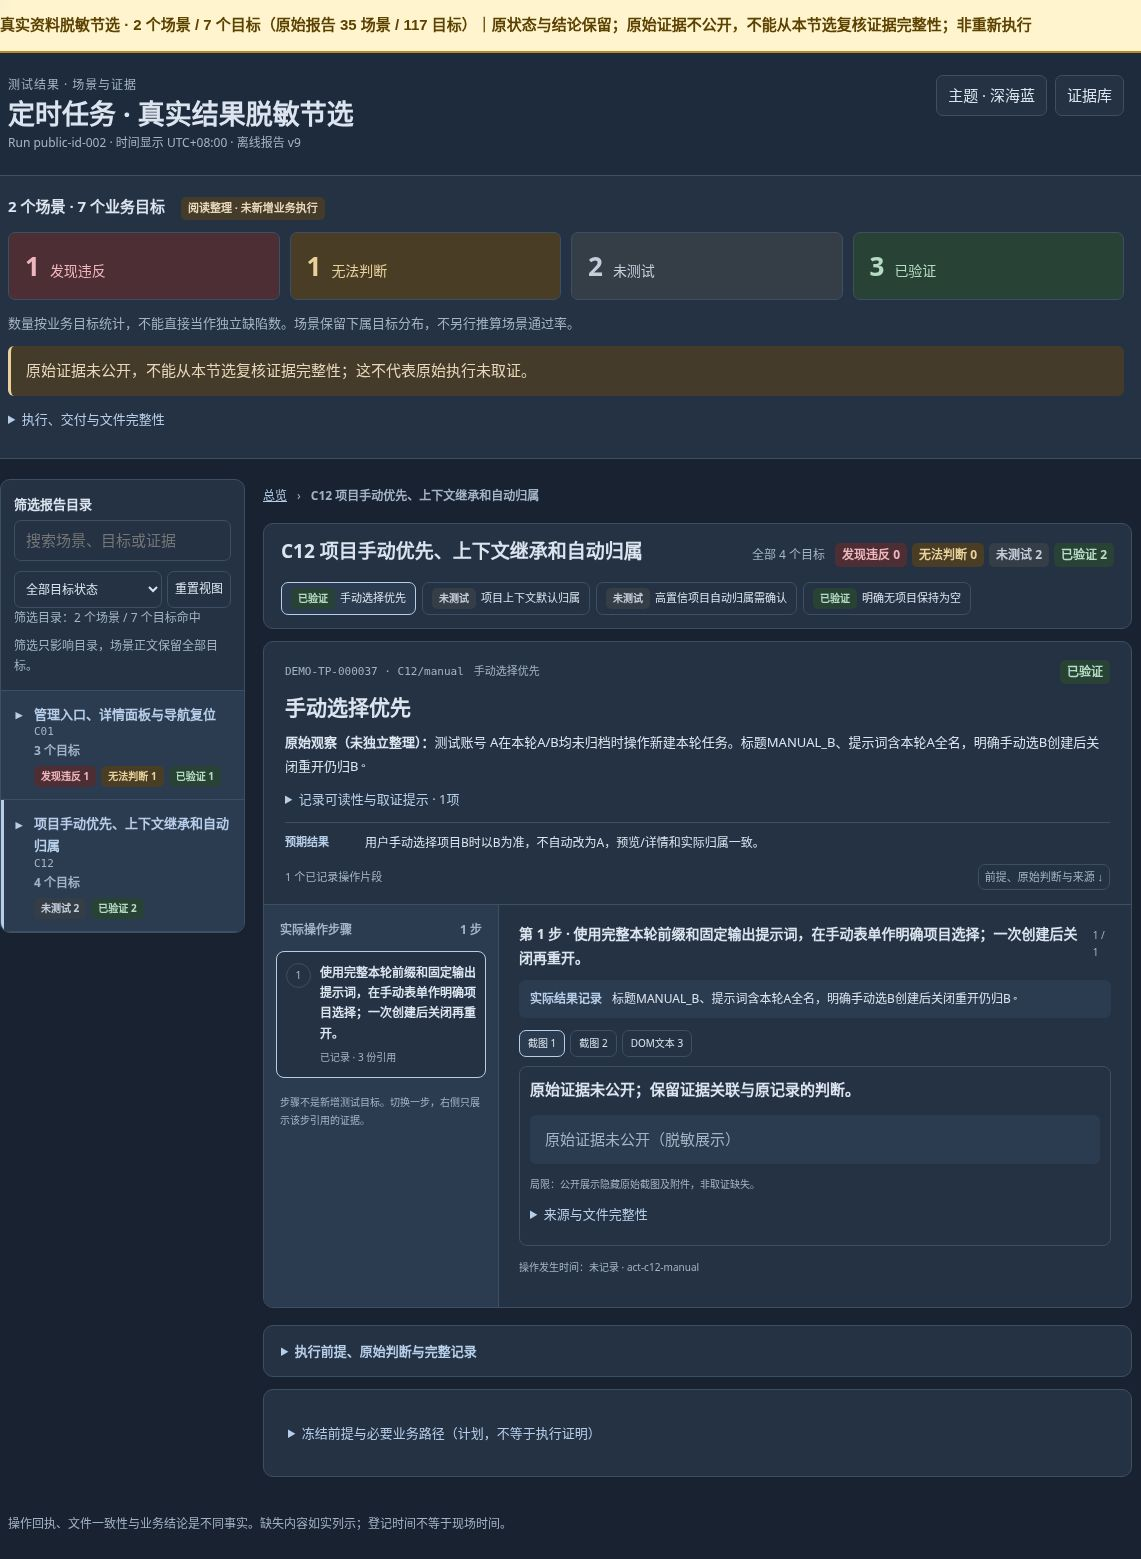
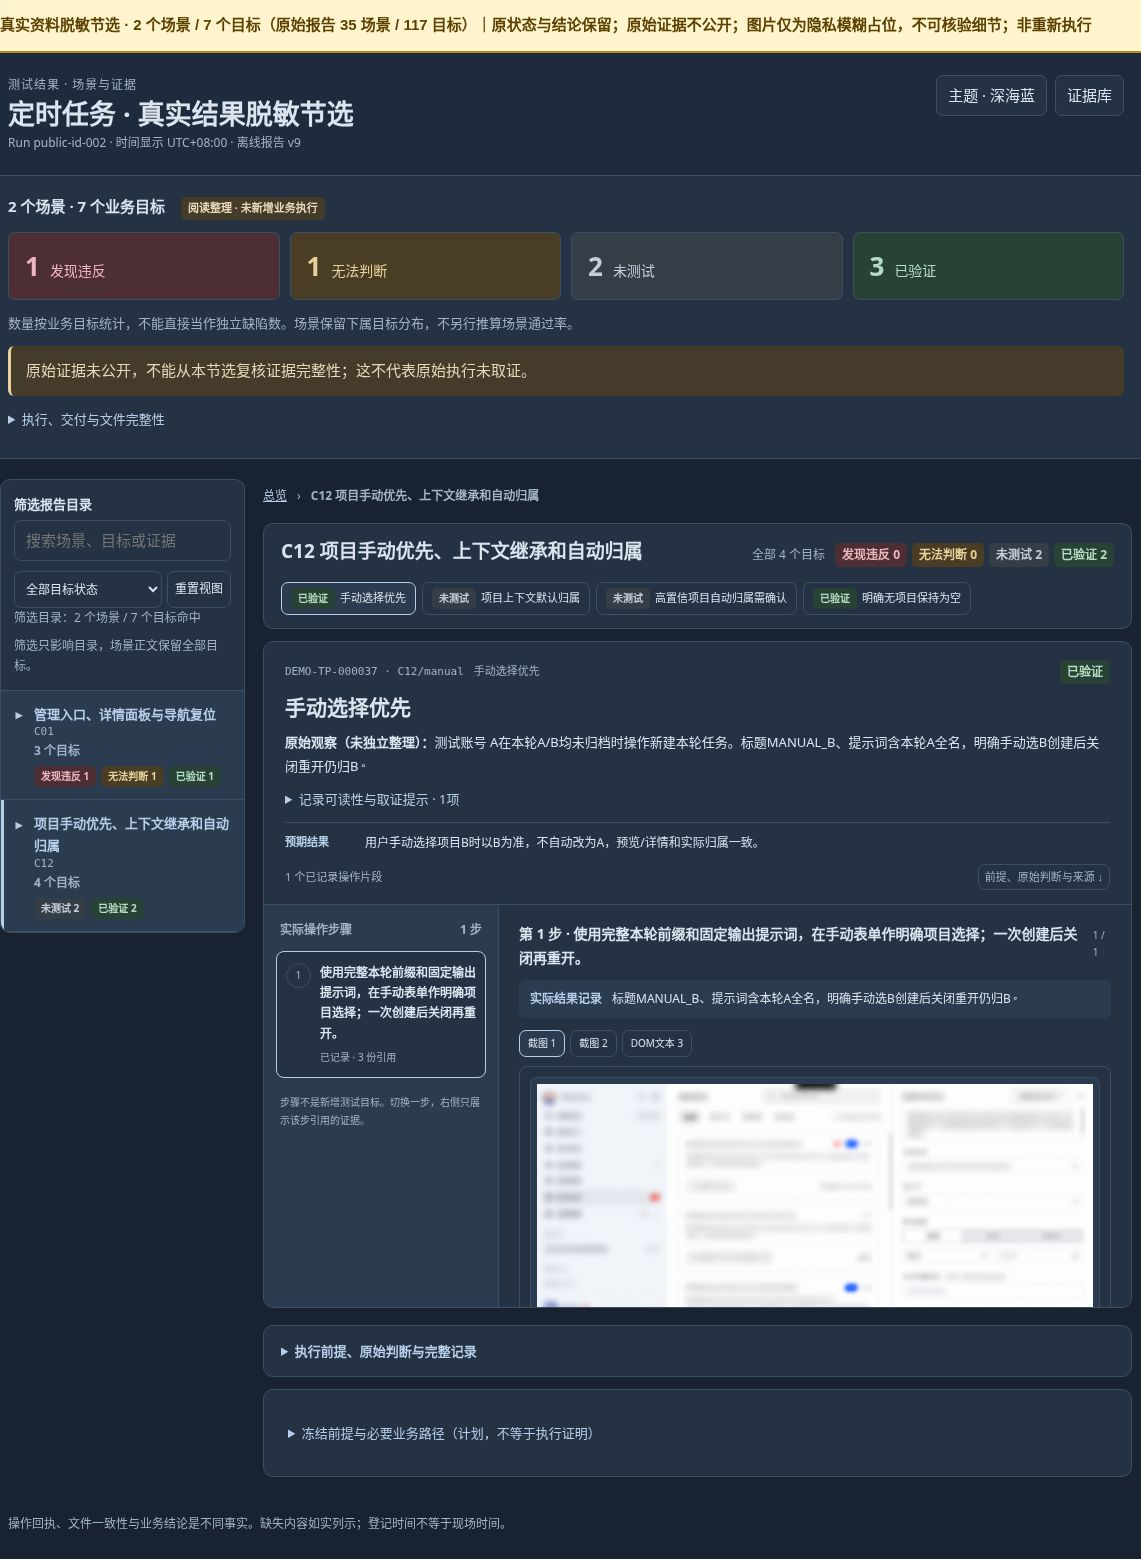
docs: show privacy-blurred evidence placeholders in real report excerpts

Changed region(s): [[0.4601, 0.6774, 0.9816, 0.8621], [0.6442, 0.0, 0.9509, 0.0308]]

diff --git a/README.en.md b/README.en.md
@@ -67,9 +67,9 @@ Network observation implements the v3 design through network start/status/query/
 
 These screenshots come from user-provided case material and an actual test report, preserving their original export layouts rather than redrawing simulated results. The case-review source is labeled “方案 B / 设计样稿” (Plan B / design prototype); it demonstrates that document’s review layout, not the default interface of a released 0.1.8 build. Screenshots retain the source language.
 
-The excerpts select **2 scenarios and 7 goals** from an original run of **35 scenarios and 117 goals**: 3 verified, 1 violation, 1 inconclusive and 2 not tested. Original verdicts are preserved. These counts describe only the displayed subset, not overall effectiveness or a full-run pass rate.
+The excerpts select **2 scenarios and 7 goals** from an original run of **35 scenarios and 117 goals**: 3 verified, 1 violation, 1 inconclusive and 2 not tested. Original verdicts are preserved; the tests have not been rerun for this showcase. These counts describe only the displayed subset, not overall effectiveness or a full-run pass rate.
 
-Identities, URLs, paths and related identifiers are redacted. Original screenshots, attachments and conversations are not published. These are captures of the **redacted report pages**, not evidence from which original evidence completeness can be reverified. “Evidence not published” must not be interpreted as missing evidence in the original execution. The repository contains reviewed page images only, not original or redacted HTML/JSON or the private preview address.
+Identities, URLs, paths and related identifiers are redacted. Original full-resolution screenshots, attachments and conversations are not published. Image areas in the report contain **heavily blurred, privacy-processed placeholders** that show the evidence-panel layout only. They cannot be used to verify details and do not imply pixel-level fidelity. These are captures of the **redacted report pages**, not evidence from which original evidence completeness can be reverified. “Evidence not published” must not be interpreted as missing evidence in the original execution. The repository contains reviewed page images only, not original or redacted HTML/JSON or the private preview address.
 
 **Case-review layout: goals, steps, expectations and review areas.**
 
@@ -81,7 +81,7 @@ Identities, URLs, paths and related identifiers are redacted. Original screensho
 
 **Violation: original expectation, observation and executed steps.**
 
-![Redacted real violation report preserving the original expectation comparison, verdict and actual steps; original evidence is not public.](docs/images/real-example/real-report-violation.jpg)
+![Redacted real violation report preserving the original expectation comparison, verdict and actual steps; heavily blurred images show the evidence-panel layout, not verifiable evidence.](docs/images/real-example/real-report-violation.jpg)
 
 <details>
 <summary>Show the case overview, verified and not-tested examples</summary>
@@ -97,6 +97,10 @@ Identities, URLs, paths and related identifiers are redacted. Original screensho
 **Not-tested goal and reason.**
 
 ![Redacted report page for a not-tested goal; unexecuted goals are not counted as passed.](docs/images/real-example/real-report-not-tested.jpg)
+
+**Evidence image viewer: heavily blurred placeholder.**
+
+![A privacy-processed, heavily blurred placeholder from a screenshot associated with preparation for a not-tested goal. It shows the viewer layout only, does not mean the goal was executed or verified, and cannot be used to verify original details.](docs/images/real-example/real-report-blurred-preview.jpg)
 
 </details>
 
